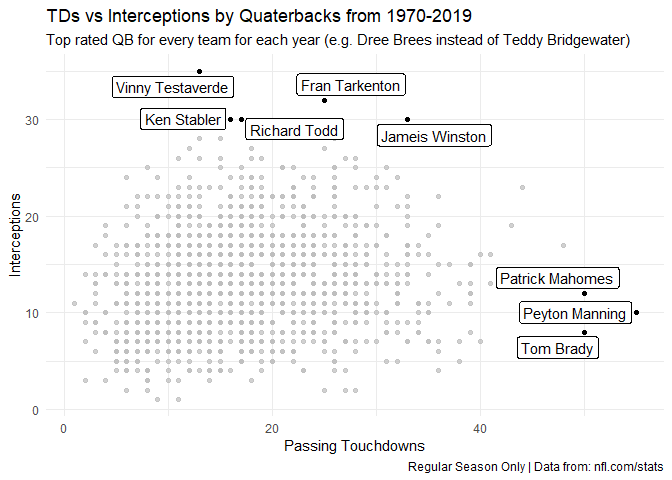
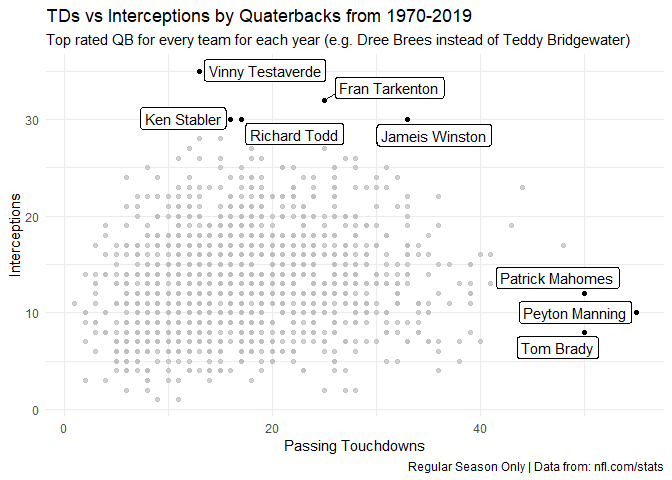
Reformatting text for Jameis label

Changed region(s): [[0.1562, 0.125, 0.6562, 0.25], [0.375, 0.25, 0.5, 0.3125]]

diff --git a/Jameis Winston/Jameis Winston Visualization Code/JameisWinston.md b/Jameis Winston/Jameis Winston Visualization Code/JameisWinston.md
@@ -72,7 +72,7 @@ ggplot(QBData, aes(x = Yds, y = Int)) +
        x = 'Passing Yards') +
   theme_minimal() +
   geom_point(data = Jameis, aes(x = Yds, y = Int), color = 'red', size = 2) +
-  geom_text(data = Jameis, aes(label=Player),hjust=0.4,vjust=-1) 
+  geom_text(data = Jameis, aes(label=Player),hjust=0.46,vjust=-1.05) 
 ```
 
 ![](JameisWinston_files/figure-gfm/Jameis%20Passing/Ints-1.png)<!-- -->
